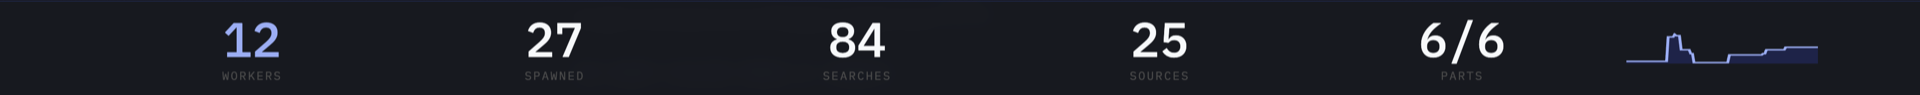
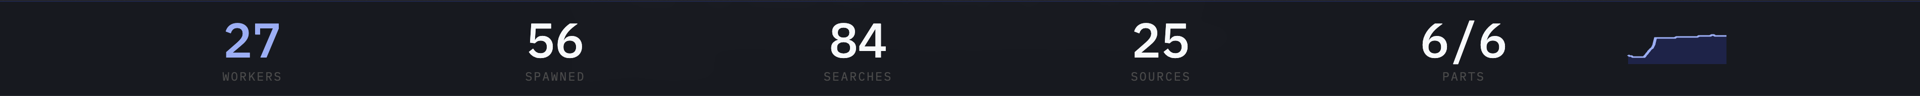
README: swap in corrected screenshots, add Cloud Run metrics, trim

diff --git a/README.md b/README.md
@@ -12,45 +12,29 @@ then merged into one cited report. The pool scales `0 → N → 0` on its own.
 
 ## What you're looking at
 
-Outline rail on the left, the cited report in the middle, sources on the right, and
-the fleet counters along the bottom. When a draft is ready the Workflow parks and
-waits for you — `WAITING FOR YOU`, with the review card in the left rail.
-
-![The research console](docs/images/hero-console.png)
-
-### Mid-fan-out
-
-Two parts done, four still running, six workers up and a peak of 22 this session.
-The right rail shows the fleet as it happens; the sparkline is the shape of the burst.
-
-![Six workers researching in parallel](docs/images/console-fanout.png)
-
-The footer is the same numbers, sized for a projector at the back of a room:
+Outline on the left, the cited report in the middle, sources on the right, live fleet
+counters along the bottom. When the draft is ready the Workflow parks and waits for
+you — that's `WAITING FOR YOU`, with the review card in the left rail.
 
 ![Live fleet counters](docs/images/footer-workers.png)
 
-### The two beats
+Two beats make the demo:
 
-- **Fan-out** — six sub-question Activities are scheduled at once. With one Activity
-  slot per instance, most of them can't be picked up by the current pool, so
-  Temporal's Worker Controller scales out to meet them.
-- **Wake from zero** — after the draft, the Workflow waits for a human. It holds no
-  task at all, so the pool drops to **zero with a live Workflow still in flight**.
-  Your approval wakes it.
+- **Fan-out** — six sub-question Activities are scheduled at once. One Activity slot
+  per instance means most can't be picked up by the current pool, so the Worker
+  Controller scales out to meet them.
+- **Wake from zero** — after the draft the Workflow holds no task at all, so the pool
+  drops to **zero with a live Workflow still in flight**. Your approval wakes it.
 
-Temporal's own timeline shows both: six `research_subquestion` Activities overlapping,
-then `synthesize`, then a 2-hour timer while it waits for a human — ended early by the
-`review` Signal.
+Temporal's timeline shows both: six `research_subquestion` Activities overlapping,
+then `synthesize`, then a 2-hour timer ended early by the `review` Signal.
 
-![Temporal timeline showing six concurrent activities and the review pause](docs/images/temporal-timeline.png)
+![Temporal timeline: six concurrent activities, then the review pause](docs/images/temporal-timeline.png)
 
-Same run while still in flight, timer pending:
+And Cloud Run's own metrics, from the other side — instance count climbing and
+returning to zero, over and over:
 
-![Temporal timeline mid-run](docs/images/temporal-running.png)
-
-And the finished report once you accept it:
-
-![The completed report](docs/images/console-done.png)
+![Cloud Run worker pool scaling from zero](docs/images/cloud-run-pool.png)
 
 ---
 
@@ -116,14 +100,10 @@ prompt — without it `make up` cannot complete unattended.
 > and Terraform ships it to the VM. Temporal Cloud additionally needs Pre-release
 > access on your Namespace; self-hosted does not. See `docs/TUTORIAL.md`.
 
-**After a rebuild, force the pool onto the new digest.** Pushing the same image tag
-does *not* redeploy it — Cloud Run pins the digest when a revision is created, so new
-worker code silently never arrives:
-
-```bash
-DIGEST=$(gcloud artifacts docker images describe "$IMAGE" --format='value(image_summary.digest)')
-gcloud run worker-pools update research-fleet-worker-pool --image "$REPO@$DIGEST" --region "$REGION"
-```
+One trap worth knowing: **after a rebuild, force the pool onto the new digest.**
+Pushing the same image tag does not redeploy it — Cloud Run pins the digest when a
+revision is created, so new worker code silently never arrives. `CLAUDE.md` gate #14
+has the command.
 
 ---
 
@@ -153,7 +133,6 @@ Locally you can skip all of it — the defaults target `temporal server start-de
 |---|---|---|
 | `TEMPORAL_ADDRESS` | `localhost:7233` | `<ns>.<acct>.tmprl.cloud:7233` for Cloud |
 | `TEMPORAL_API_KEY` | *unset* | Temporal Cloud; setting it turns TLS on |
-| `TEMPORAL_TASK_QUEUE` | `research-queue` | |
 | `TEMPORAL_DEPLOYMENT_NAME` | `research-fleet` | A mismatch makes Workflows hang with **no error** |
 | `MAX_CONCURRENT_ACTIVITIES` | `1` | Activity slots per Worker. Raising it hides the scaling behaviour |
 | `MAX_SUBQUESTIONS` | `6` | Fan-out width — this *is* the worker count one question lights up |
@@ -170,14 +149,12 @@ Full list with reasoning lives in `runtime.py` and `research_activities.py`.
 | | |
 |---|---|
 | `runtime.py` | The infra half — connect, versioned Worker, slot limits, SIGTERM drain. App-agnostic |
-| `workflows.py` / `activities.py` | The hello app: the infrastructure smoke test |
+| `workflows.py` · `activities.py` | The hello app: the infrastructure smoke test |
 | `llm.py` | The Claude seam. Imports no `temporalio`; `max_retries=0` because Temporal owns retry |
 | `research_*.py` | Plan → fan out → draft → human review → optional second pass |
-| `web.py` + `web/` | The single-page console. Vanilla JS, no build step |
+| `web.py` · `web/` | The single-page console. Vanilla JS, no build step |
 | `terraform/` | The whole GCP stack, one `make up` |
-| `tests/` | 111 offline tests |
-| `learn/README.md` | Eleven cards on Temporal → Serverless Workers, rendered in-app |
-| `docs/` | `TUTORIAL.md` (runnable gcloud walkthrough), `KNOWLEDGE_BASE.md` (research base) |
+| `tests/` · `learn/` · `docs/` | 111 offline tests · eleven in-app learn cards · tutorial and knowledge base |
 
 ---
 
